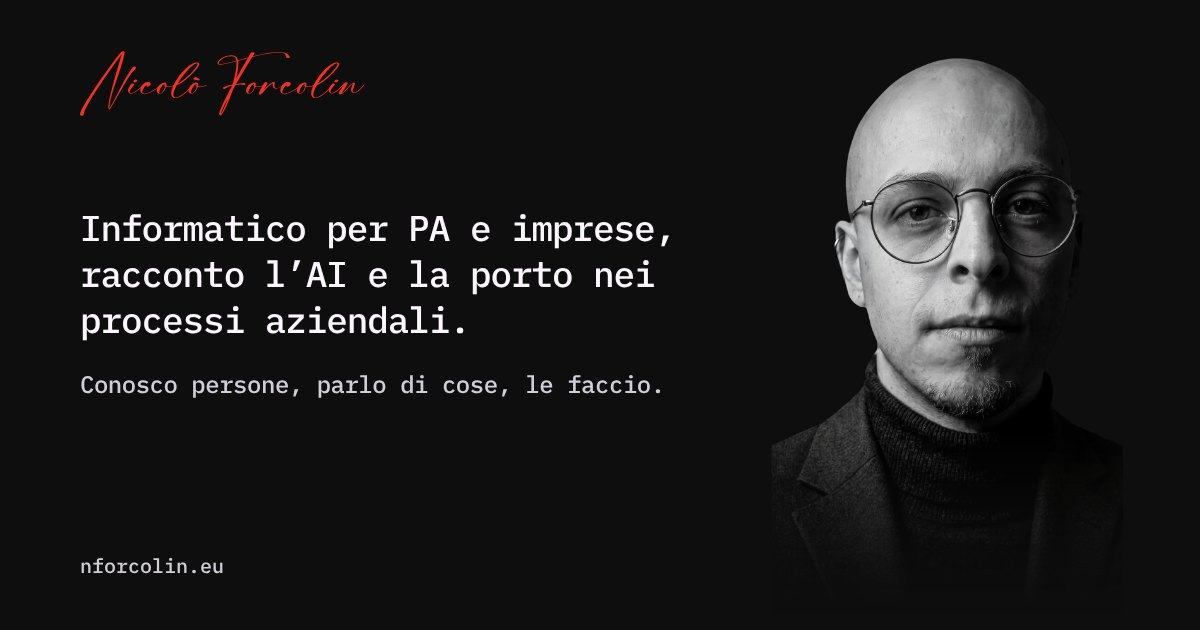
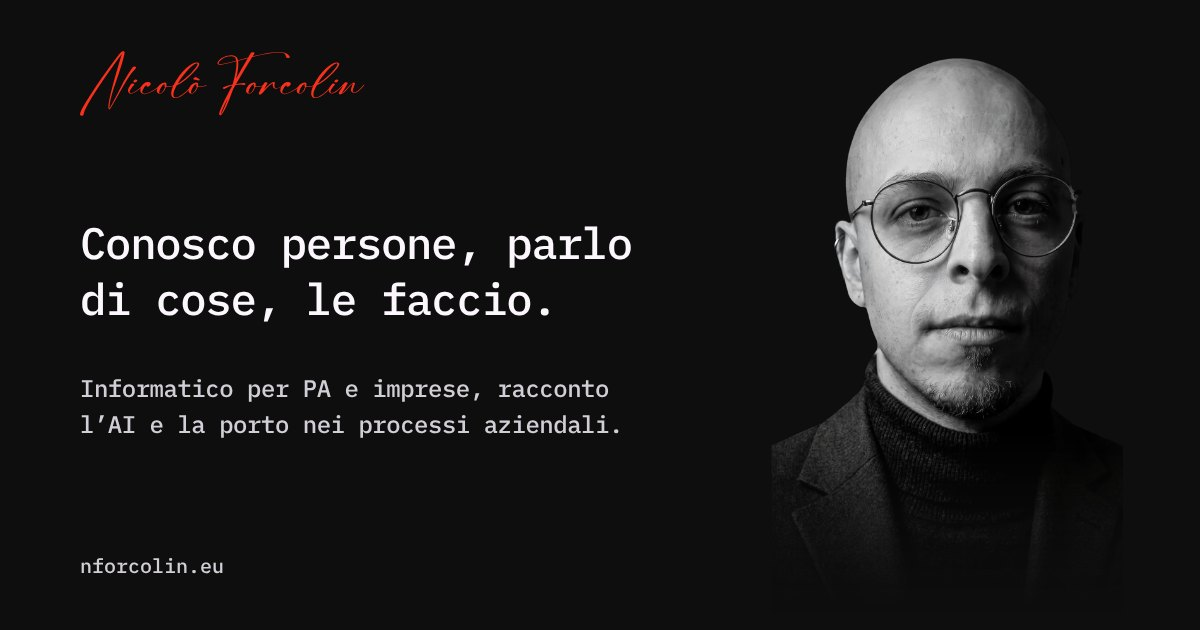
Apertura invertita: la firma è il titolo (#785)
* Titoli dei blocchi arancioni, home riequilibrata su mobile

Claude-Session: https://claude.ai/code/session_013V1PHsaQycbZcwD9TwvD3o

* Firma più grande e leggibile da desktop

Claude-Session: https://claude.ai/code/session_013V1PHsaQycbZcwD9TwvD3o

* Accesso condiviso con Nicolò brain: verifica della sessione e ritorno dopo il login

Claude-Session: https://claude.ai/code/session_013V1PHsaQycbZcwD9TwvD3o

* Test del browser allineati: Scrivimi porta ai contatti, sotto la foto c'è l'introduzione

Claude-Session: https://claude.ai/code/session_013V1PHsaQycbZcwD9TwvD3o

* Strada /brain/ verso il progetto di Nicolò brain

Claude-Session: https://claude.ai/code/session_013V1PHsaQycbZcwD9TwvD3o

* La pagina /brain/ passa anche lei al brain

Claude-Session: https://claude.ai/code/session_013V1PHsaQycbZcwD9TwvD3o

* Accesso Google: la pagina di ritorno aperta due volte non dà più errore

Claude-Session: https://claude.ai/code/session_013V1PHsaQycbZcwD9TwvD3o

* Home e Progetti attorno a quattro ambiti, nuova apertura e piattaforma di marca

Claude-Session: https://claude.ai/code/session_013V1PHsaQycbZcwD9TwvD3o

* Firma nell'apertura e risultato 80 su 100 senza "circa"

Claude-Session: https://claude.ai/code/session_013V1PHsaQycbZcwD9TwvD3o

* Apertura invertita: la firma è il titolo, la frase sul lavoro sotto

Claude-Session: https://claude.ai/code/session_013V1PHsaQycbZcwD9TwvD3o

---------

Changed region(s): [[0.0617, 0.3317, 0.555, 0.5429], [0.0617, 0.6032, 0.555, 0.6333], [0.0617, 0.6635, 0.5242, 0.6937]]

diff --git a/index.html b/index.html
@@ -23,13 +23,13 @@
 <meta property="og:locale" content="it_IT">
 <meta property="og:title" content="Nicolò Forcolin | AI nei processi aziendali, per PA e imprese">
 <meta property="og:description" content="Informatico per PA e imprese, racconto l’AI e la porto nei processi aziendali. Un assistente AI che ho creato porta l’analisi post evento da una giornata a poche ore.">
-<meta property="og:image" content="https://nforcolin.eu/og-home.jpg?v=4">
+<meta property="og:image" content="https://nforcolin.eu/og-home.jpg?v=5">
 <meta property="og:image:width" content="1200">
 <meta property="og:image:height" content="630">
 <meta name="twitter:card" content="summary_large_image">
 <meta name="twitter:title" content="Nicolò Forcolin | AI nei processi aziendali, per PA e imprese">
 <meta name="twitter:description" content="Informatico per PA e imprese, racconto l’AI e la porto nei processi aziendali. Un assistente AI che ho creato porta l’analisi post evento da una giornata a poche ore.">
-<meta name="twitter:image" content="https://nforcolin.eu/og-home.jpg?v=4">
+<meta name="twitter:image" content="https://nforcolin.eu/og-home.jpg?v=5">
 
 <script type="application/ld+json">
 {
@@ -39,7 +39,7 @@
     "@type": "Person",
     "name": "Nicolò Forcolin",
     "url": "https://nforcolin.eu/",
-    "image": "https://nforcolin.eu/og-home.jpg?v=4",
+    "image": "https://nforcolin.eu/og-home.jpg?v=5",
     "worksFor": { "@type": "Organization", "name": "InfoCamere" },
     "address": { "@type": "PostalAddress", "addressLocality": "Padova", "addressCountry": "IT" },
     "knowsLanguage": ["it", "en"],
@@ -81,7 +81,7 @@
   <div class="hero-inner wrap">
     <div class="hero-overlay">
       <h1 class="visually-hidden" id="hero-name">Nicolò Forcolin</h1>
-      <div class="hero-intro" id="heroIntro"><p>Informatico per PA e imprese, racconto l’AI e la porto nei processi aziendali.</p><p>Conosco persone, parlo di cose, le faccio.</p><p><a class="home-text-link" href="contatti.html">Conosciamoci con un caffè.</a></p></div>
+      <div class="hero-intro" id="heroIntro"><p>Conosco persone, parlo di cose, le faccio.</p><p>Informatico per PA e imprese, racconto l’AI e la porto nei processi aziendali.</p><p><a class="home-text-link" href="contatti.html">Conosciamoci con un caffè.</a></p></div>
     </div>
     <div class="hero-photo-frame">
       <img class="hero-portrait" id="avatarPhoto" src="photo.webp?v=43" srcset="photo-720.webp 720w, photo-960.webp 960w, photo.webp?v=43 1428w" sizes="(max-width:700px) 90vw, 446px" alt="Nicolò Forcolin" width="1428" height="1900" fetchpriority="high">

diff --git a/script.js b/script.js
@@ -147,8 +147,8 @@
       enablement_title:"Condividere l’esperienza sul campo",
       enablement_desc:"Ho partecipato come relatore a incontri interni sull’AI. Dal 2025 sono anche Social Ambassador di InfoCamere: promuovo la cultura digitale e condivido l’esperienza maturata nel lavoro.",
       hero_intro:[
-        [{t:"Informatico per PA e imprese, racconto l’AI e la porto nei processi aziendali."}],
         [{t:"Conosco persone, parlo di cose, le faccio."}],
+        [{t:"Informatico per PA e imprese, racconto l’AI e la porto nei processi aziendali."}],
         [{t:"Conosciamoci con un caffè.",href:"contatti.html"}]
       ],
       stats_label:"In numeri",
@@ -493,8 +493,8 @@
       enablement_title:"Sharing practical experience",
       enablement_desc:"I have spoken at internal AI sessions. Since 2025, I have also been an InfoCamere Social Ambassador, promoting digital culture and sharing experience from my work.",
       hero_intro:[
-        [{t:"IT specialist for public administrations and companies, I talk about AI and bring it into business processes."}],
         [{t:"I know people, I talk about things, I get them done."}],
+        [{t:"IT specialist for public administrations and companies, I talk about AI and bring it into business processes."}],
         [{t:"Let’s get to know each other over a coffee.",href:"contatti.html"}]
       ],
       stats_label:"In numbers",

diff --git a/i18n-zh.js b/i18n-zh.js
@@ -146,8 +146,8 @@ window.NF_I18N.zh = {
   enablement_title: "分享实践经验",
   enablement_desc: "我曾在内部的 AI 分享会上发言。自 2025 年起，我还担任 InfoCamere 社交大使，推广数字文化，分享工作中的经验。",
   hero_intro: [
-    [{ t: "面向公共机构和企业的 IT 人员，我讲解 AI，并把它带进业务流程。" }],
     [{ t: "我认识不少人，谈具体的事，也把事做成。" }],
+    [{ t: "面向公共机构和企业的 IT 人员，我讲解 AI，并把它带进业务流程。" }],
     [{ t: "我们喝杯咖啡，彼此认识一下吧。", href: "contatti.html" }]
   ],
   stats_label: "数据一览",

diff --git a/BRAND.md b/BRAND.md
@@ -167,3 +167,4 @@ Fino al 15 novembre 2026 la home su mobile si apriva con una prima schermata a t
 - Firma da desktop (25 novembre 2026): sopra i 900 px di larghezza la firma passa a 44 px (2,75rem) con un contorno di 0,35 px nello stesso colore, che ispessisce il tratto sottile di Destiny Signature; su tablet e mobile restano le misure di prima.
 - Home e Progetti attorno a quattro ambiti (28 novembre 2026, scelta di Nicolò): apertura "Informatico per PA e imprese, racconto l’AI e la porto nei processi aziendali." / "Parlo di cose, conosco persone." / "Conosciamoci con un caffè." (l’ultima riga è un link ai contatti, sottolineato in arancione, senza bottone: la hero resta senza pulsanti). Tolti l’esempio dell’assistente, la riga sul pubblico (con la frase sulle presentazioni PowerPoint) e i testi di home_audience_desc. La sezione "Progetti" della home diventa "Dove lavoriamo insieme", con Consulenza AI, Sistemi AI, Formazione e Governance (nomi inglesi sul sito in inglese: AI advisory, AI systems, Training, Governance). Progetti raggruppa le voci per ambito e tiene l’attribuzione nelle etichette ("InfoCamere, in produzione dal 2026"); "Altre iniziative" raccoglie Club degli Uomini Gentili e Questo sito. Titolo e descrizione della home, anteprima og-home.jpg (ora ?v=4) e testi in italiano, inglese e cinese aggiornati. Il titolo della hero resta su 3 righe, come già deciso il 22 novembre.
 - Firma e risultato dei modelli in locale (28 novembre 2026, scelta di Nicolò): la seconda riga dell’apertura diventa "Conosco persone, parlo di cose, le faccio." (prima: "Parlo di cose, conosco persone."); inglese "I know people, I talk about things, I get them done." Nella home, sotto Governance, "80 risposte corrette su 100 domande di prova" senza "circa". La pagina AI in locale e le domande frequenti dicono ancora "circa": da allineare se i dati sono esatti.
+- Apertura invertita (28 novembre 2026, scelta di Nicolò): il titolo grande è la firma "Conosco persone, parlo di cose, le faccio." e la frase sul lavoro, "Informatico per PA e imprese, racconto l’AI e la porto nei processi aziendali.", passa sotto con il corpo del testo; poi il link "Conosciamoci con un caffè.". Il titolo della hero ora sta su due righe (non più tre). Anteprima og-home.jpg con lo stesso ordine (ora ?v=5). Titolo e descrizione della pagina dicono ancora il posizionamento ("AI nei processi aziendali, per PA e imprese").
